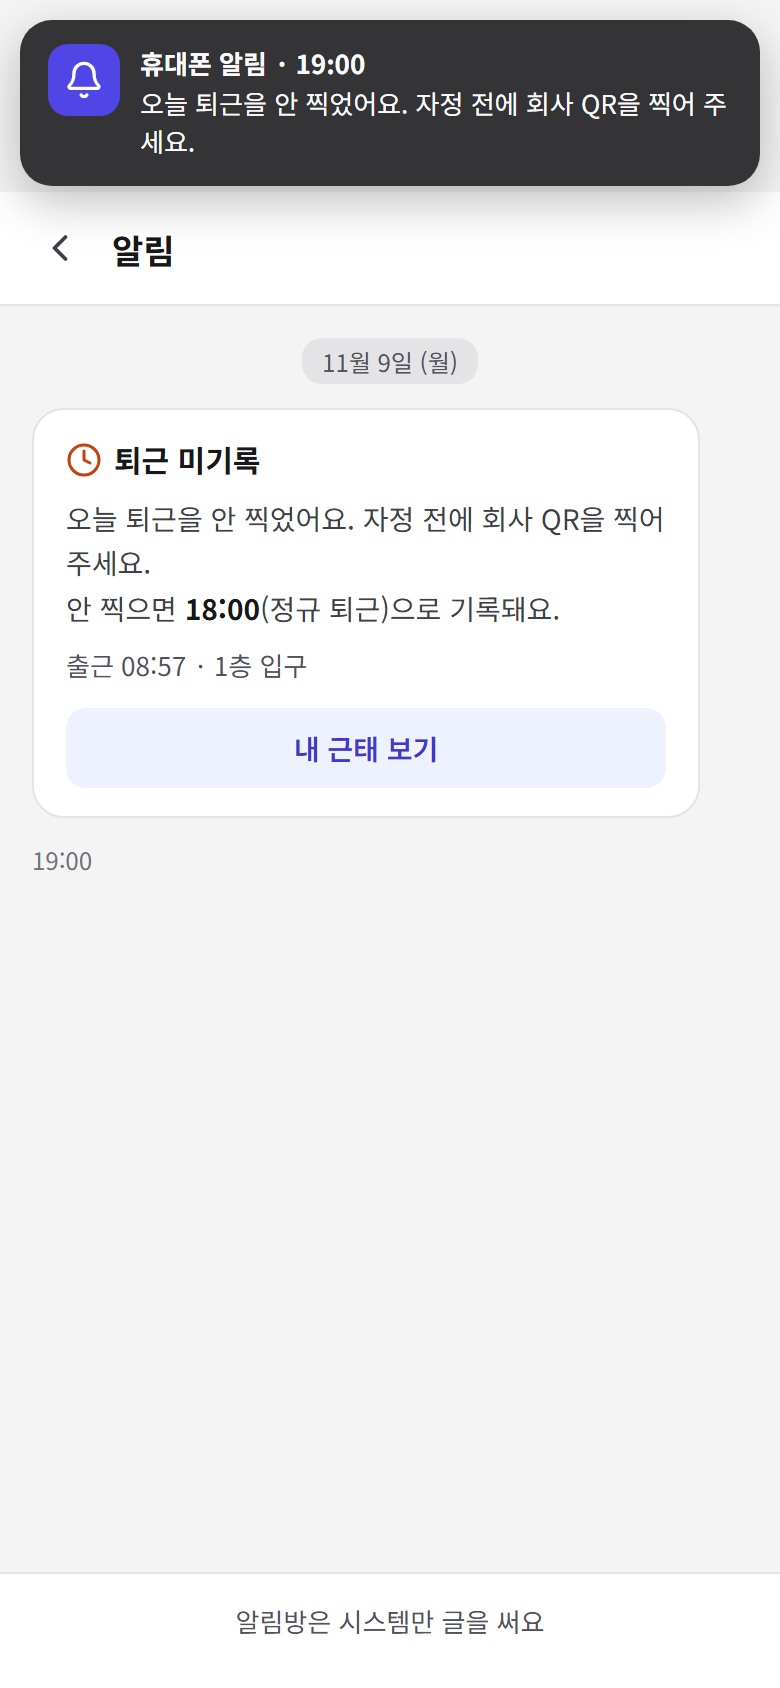
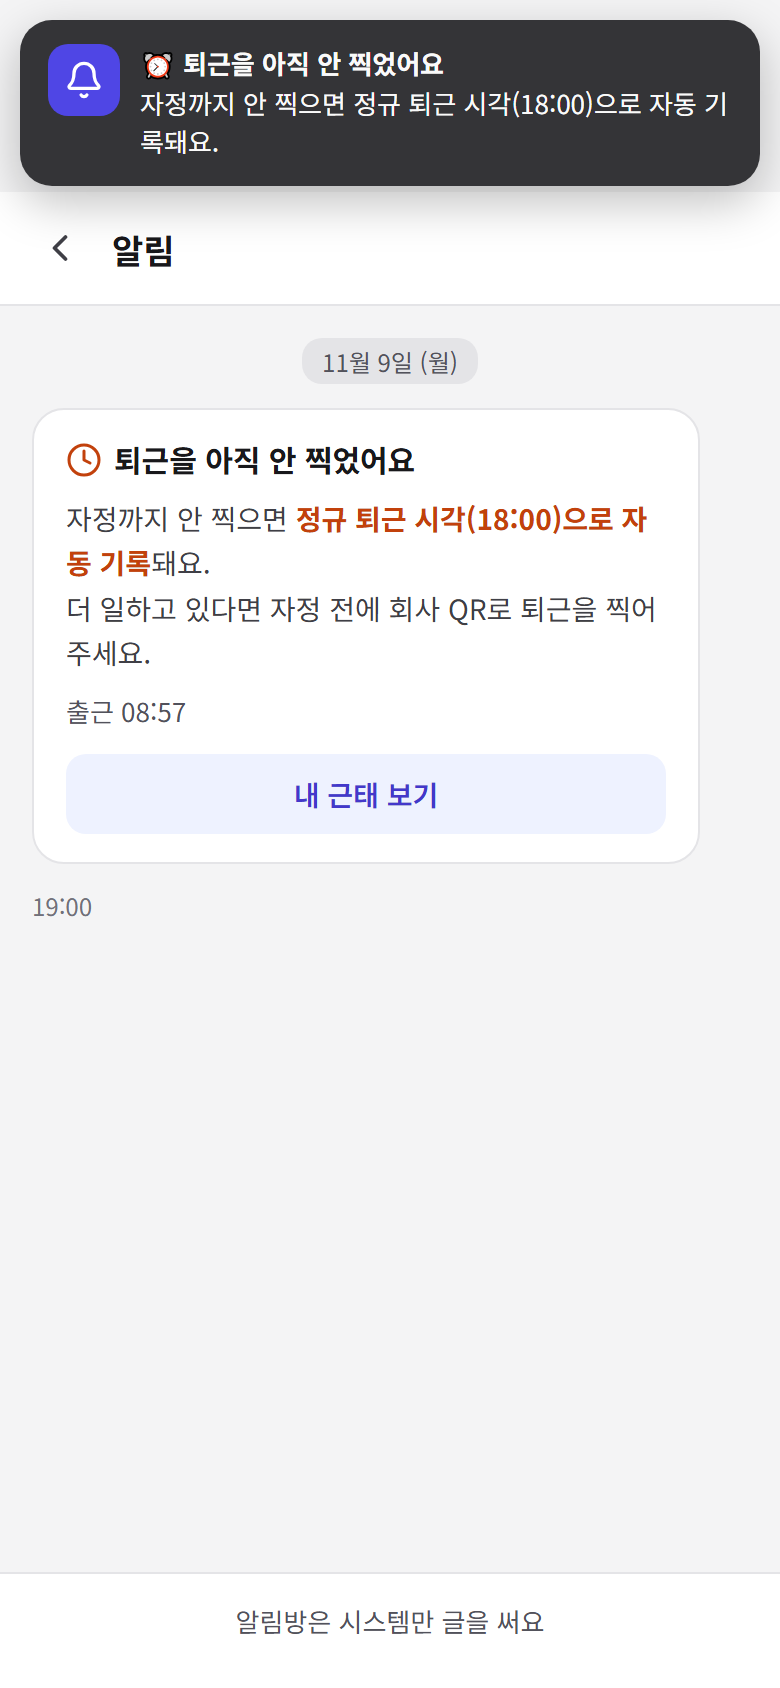
feat: [Harness Auto] 퇴근 누락 알림에 정규 퇴근 시각 자동 기록 안내 필수 (D-238)

diff --git a/src/lib/chat/format.test.ts b/src/lib/chat/format.test.ts
@@ -141,7 +141,17 @@ describe("noticeCard (D-224 앱 알림 카드)", () => {
         { label: null, value: "지급까지 기다려 주세요." },
       ],
     });
+    // 퇴근 누락 알림(D-238): 시각 속 ":"를 이름으로 잘못 나누지 않음
+    expect(noticeCard("퇴근을 아직 안 찍었어요\n자정까지 안 찍으면 정규 퇴근 시각(18:00)으로 자동 기록돼요.\n더 일하고 있다면 자정 전에 회사 QR로 퇴근을 찍어 주세요.\n출근: 08:57")).toEqual({
+      title: "퇴근을 아직 안 찍었어요",
+      rows: [
+        { label: null, value: "자정까지 안 찍으면 정규 퇴근 시각(18:00)으로 자동 기록돼요." },
+        { label: null, value: "더 일하고 있다면 자정 전에 회사 QR로 퇴근을 찍어 주세요." },
+        { label: "출근", value: "08:57" },
+      ],
+    });
     expect(assistantLinkLabel("/workspace/c/employee#notices")).toBe("공지 보기");
+    expect(assistantLinkLabel("/workspace/c/employee/attendance")).toBe("내 근태 보기");
     expect(assistantLinkLabel("/workspace/c/admin/export?month=2026-10")).toBe("세무 마감 열기");
     expect(assistantLinkLabel("/workspace/c/employee/claims/x")).toBe("결의서 열기");
   });

diff --git a/src/lib/chat/format.ts b/src/lib/chat/format.ts
@@ -202,6 +202,7 @@ export function assistantLinkLabel(link: string): string {
   if (/^\/employee\/claims\/[^/]+/.test(p)) return "결의서 열기";
   if (p.startsWith("/employee/settlements") || p.startsWith("/admin/payouts")) return "정산 화면 열기";
   if (p.startsWith("/employee/profile")) return "내 정보 열기";
+  if (p.startsWith("/employee/attendance")) return "내 근태 보기";
   if (p.startsWith("/employee")) return "내 결의서 보기";
   if (p.startsWith("/admin/claims") || p.startsWith("/approvals")) return "결재하러 가기";
   if (p.startsWith("/chat")) return "채팅 목록 열기";

diff --git a/src/app/api/cron/reminder-push/route.ts b/src/app/api/cron/reminder-push/route.ts
@@ -21,7 +21,7 @@ async function handle(request: NextRequest) {
   for (const d of due) {
     const [first, ...rest] = (d.body ?? "").split("\n");
     const r = await pushToMembers(d.company_id, [d.member_id], {
-      title: `📅 ${first || "알림"}`,
+      title: `${first.startsWith("퇴근") ? "⏰" : "📅"} ${first || "알림"}`, // 퇴근 누락 알림(D-238)은 ⏰
       body: rest.join(" · "),
       url: d.link ?? `/workspace/${d.company_id}/chat/${d.room_id}`,
       tag: `notice-${d.id}`,

diff --git a/project/decision-log.md b/project/decision-log.md
@@ -256,6 +256,7 @@
 | D-235 | **직원 홈 = 허브 개편**(사용자 확인 2026-11-08, 시안 캔버스 "WORKON 직원 홈 시안" 1·2·지출결의 화면 "맞는 거 같아"): ① 맨 위 메뉴 칸(아이콘+이름, 처리할 것만 배지) = 지출결의·정산·결재함(사전 검토자만)·회의실(캘린더 켬+회의실 있음). 캘린더·채팅은 하단 바에 있으므로 칸에서 제외 ② "오늘 · 내 현황" 카드 한 곳에 상태(오늘 내 일정 최대 3개·사비 정산 대기금·반려) ③ 공지는 있을 때만 카드 ④ 결의서 목록은 [지출결의] 화면(`/employee/claims`)으로 옮김, 예전 `?month=/?status=` 주소는 넘김 ⑤ 하단 바 = 홈·캘린더·[+ 결의서 쓰기]·채팅·내 정보(정산·결재함은 메뉴 칸으로). 가운데 버튼은 어느 화면에서든 새 결의서, 무료 사용량 소진 시 서버에서 막고 안내 ⑥ 헤더 회사명 = 홈. 근태 켠 회사의 가운데 [QR 출퇴근]·근태/휴가 칸은 근태 구현 때 | 2026-11-08 | worker-dashboard §0·§3·§5 변경 |
 | D-236 | **근태 1단계 = 근태 설정 · 회사 QR(출근 단말) · QR 출퇴근 승인·구현**(사용자 2026-11-08 "진행해", 시안 캔버스 "근태 1단계 시안"): ① 회사별 스위치(관리자가 켬) ② 근무 기준(정규 출퇴근 09:00~18:00·소정근로 8h·근무 요일 월~금·누락 알림 정규 퇴근+1h(30분~3시간)·연차 연도 기준·5인 미만) ③ 설정·단말 변경은 모두 이력(누가·언제·이전→새), 관리자·서버도 고치거나 지울 수 없음 ④ 출근 단말 = **연결 코드 방식**(6자리·10분·1회, 기기엔 열쇠만) ⑤ 30초 동적 QR(직전 칸까지), 06:00~24:00만 ⑥ 하루 출근 1번·퇴근 1번(퇴근 확인 창, 이미 퇴근이면 기록 안 함 → 정정 신청 안내) ⑦ 자정까지 퇴근 없으면 정규 퇴근 시각 자동 기록(출근 때 정규 퇴근 시각을 함께 저장 — 설정 변경은 그 뒤 기록부터) ⑧ 누락 알림 = 본인 채팅 [알림]방 + 휴대폰(메신저 켠 회사) ⑨ 휴일(근무 요일 아님·공휴일) 기록 + "휴일" 표시 ⑩ 직원 하단 가운데 = [QR 출퇴근](앱 안 스캐너, 휴대폰 기본 카메라도 됨), 홈 현황 카드에 오늘 출퇴근 줄 ⑪ 관리자 근태 화면 위 사용 안내(접힘)에 시안에서 만든 예시 그림 6장(로고·서비스 이름 없음). 정정 신청·휴일 근무 상신·월 근태 현황·연차·휴가는 다음 단계 | 2026-11-08 | attendance.md 승인 |
 | D-237 | **근태 ④ 월 근태 현황 승인·구현**(사용자 2026-11-08 "정확히는 애매한데 일단 이렇게 진행해" — 시안 캔버스 ④ 줄): 홈 메뉴 칸 [근태](근태 켠 회사) → 이번 달, 월 이동(이번 달까지), 요약(출근한 날·휴일 포함 일수·머문 시간 합계·자동 퇴근·기록 없는 근무일), 날짜 목록(최근 위·미래 없음, 표시 자동 퇴근/휴일/기록 없음/퇴근 전/출근 전), 기록 없는 휴일은 목록에서 뺌, "기록 없음"은 근태 켠 날과 가입 승인일 중 늦은 날부터, 날짜 누르면 상세(단말·자동 기록 안내·[정정 신청]은 ⑤까지 비활성). 지각·부족시간 계산 없음. 사용자가 "정확히는 애매"하다고 했으므로 실제로 써 본 뒤 바꿀 수 있음 | 2026-11-08 | attendance.md §5 승인 |
+| D-238 | **퇴근 누락 알림 문구에 자동 기록 안내 필수**(사용자 2026-11-08 "퇴근 안찍어서 설정된 시각에 알림갈때 꼭 안내해줘 안찍으면 정규 퇴근 시각으로 자동 기록된다고"): 알림방 글·휴대폰 알림 모두 "자정까지 안 찍으면 정규 퇴근 시각(HH:MM)으로 자동 기록돼요."를 제목 바로 다음(휴대폰 알림 본문 맨 앞)에 넣는다. 제목 "퇴근을 아직 안 찍었어요"(⏰), 링크는 월 근태 현황 [내 근태 보기]. 기존 문구의 "18:00"이 알림 카드에서 "이름: 값" 줄로 잘못 나뉘던 문제·링크 버튼이 "내 결의서 보기"로 나오던 문제도 함께 고침 | 2026-11-08 | attendance.md §3-4 |
 
 ---
 

diff --git a/implementation/todo.md b/implementation/todo.md
@@ -314,6 +314,7 @@
 - [x] 8-86 직원 홈 = 허브 개편(메뉴 칸·오늘 · 내 현황·공지 카드, [지출결의] 목록 화면 분리, 하단 바 가운데 [+ 결의서 쓰기]) (2026-11-08, D-235, `implementation/2026-11-08_employee-hub.md`)
 - [ ] 8-87 (후보·미결) 회사 주변 버스 정류장 노선·도착 정보 — 사용자 아이디어 기록만(2026-11-08). 회사 위치 저장·공공데이터 API 키·범위 결정 전 구현하지 말 것
 - [x] 8-88 근태 ④ 월 근태 현황(직원 [근태] 메뉴 칸 — 월 이동·날짜별 출퇴근·자동/휴일/누락 표시) (2026-11-08, D-237, `implementation/2026-11-08_attendance-month.md`). 사용자 "정확히는 애매" — 써 보고 다시 다듬을 수 있음
+- [x] 8-88a 퇴근 누락 알림 문구에 "자정까지 안 찍으면 정규 퇴근 시각으로 자동 기록" 안내 필수 + [내 근태 보기] 링크 (2026-11-08, D-238, `implementation/2026-11-08_attendance-alert-text.md`)
 - [ ] 8-89 근태 ⑤ 근무시간 정정 신청·휴일 근무 상신 → 관리자 승인(원본 보존). 결과 화면 [정정 신청]·[휴일 근무 상신] 버튼, 관리자 안내 그림의 "곧 열려요" 문구 제거
 - [ ] 8-90 근태 ⑥ 직원별 연차 일수(법 기준 추천값·시간차 허용) / 8-91 ⑦ 휴가 신청·취소 / 8-92 ⑧ 오늘 출근 현황(관리자) — 각각 Spec·시안 확인 후
 - [ ] 8-93 개인정보처리방침·약관에 출퇴근 기록·기기 정보(실패 기록 90일) 수집·보존 항목 추가 — 실제 고객 회사가 근태를 켜기 전에(attendance.md §4)

diff --git a/spec/features/attendance.md b/spec/features/attendance.md
@@ -68,7 +68,10 @@
 - 홈 "오늘 · 내 현황" 카드 맨 위 한 줄: "출근 08:57 · 퇴근 전" / "출근 08:57 · 퇴근 18:12".
 
 ### 3-4. 퇴근 누락
-- **알림**: 정규 퇴근 + 설정 시간이 지나도 퇴근이 없으면 본인 채팅 **[알림]방**에 "오늘 퇴근을 안 찍었어요. 자정 전에 회사 QR을 찍어 주세요. 안 찍으면 18:00으로 기록돼요." + 휴대폰 알림. 하루 한 번. 휴일·휴가일은 보내지 않는다.
+- **알림**(D-238 문구): 정규 퇴근 + 설정 시간이 지나도 퇴근이 없으면 본인 채팅 **[알림]방**과 휴대폰 알림으로 보낸다. 하루 한 번. 휴일·휴가일은 보내지 않는다.
+  - 제목: "퇴근을 아직 안 찍었어요"(휴대폰 알림 ⏰)
+  - **자동 기록 안내(반드시, 휴대폰 알림 본문 맨 앞)**: "자정까지 안 찍으면 정규 퇴근 시각(18:00)으로 자동 기록돼요."
+  - "더 일하고 있다면 자정 전에 회사 QR로 퇴근을 찍어 주세요." · "출근: 08:57" · 버튼 [내 근태 보기](→ 월 근태 현황)
   - 기존 예약 작업(pg_cron 10분마다)·[알림]방·웹푸시 구조를 재사용한다.
 - **자동 퇴근**: 자정이 지나도 퇴근이 없으면 그 날 퇴근 = **정규 퇴근 시각**, 방법 = `auto`("자동" 표시). 출근이 정규 퇴근보다 늦으면 자동 퇴근 = 출근 시각(0분). 휴일 출근에도 같은 규칙.
 - 고치려면 직원 정정 신청 → 관리자 승인(다음 Spec). 원본 보존.

diff --git a/implementation/2026-11-08_attendance-alert-text.md b/implementation/2026-11-08_attendance-alert-text.md
@@ -1,0 +1,18 @@
+# 퇴근 누락 알림 문구 (D-238)
+
+- 구현 일시: 2026-11-08
+- Spec: `spec/features/attendance.md` §3-4 알림
+
+## 변경 사항
+- DB(migration 126_attendance_alert_text.sql): `private.attendance_tick()` 알림 글을
+  "퇴근을 아직 안 찍었어요 / 자정까지 안 찍으면 정규 퇴근 시각(18:00)으로 자동 기록돼요. / 더 일하고 있다면 자정 전에 회사 QR로 퇴근을 찍어 주세요. / 출근: 08:57"로, 링크를 `/employee/attendance`로
+- 휴대폰 알림(`/api/cron/reminder-push`): 첫 줄이 "퇴근"으로 시작하면 ⏰ — 본문 맨 앞이 자동 기록 안내
+- 알림 카드 버튼: `/employee/attendance` → [내 근태 보기] (`assistantLinkLabel`)
+- 관리자 안내 그림 `public/guide/attendance/notice.png` 새 문구로 다시 그림
+
+## 검증
+- tsc / npm run test / DB test 078(알림 문구 확인 추가) / build
+- 알림 카드 해석 단위 테스트: 시각의 ":"를 "이름: 값"으로 잘못 나누지 않음
+
+## 특이 사항
+- 전에는 "안 찍으면 18:00(정규 퇴근)…" 줄이 카드에서 "안 찍으면 18 | 00(정규…"로 나뉘고, 버튼이 "내 결의서 보기"로 나왔다 — 함께 고침
